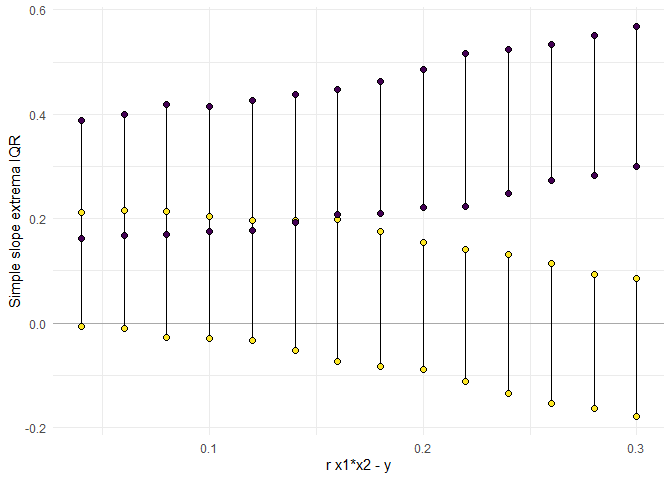
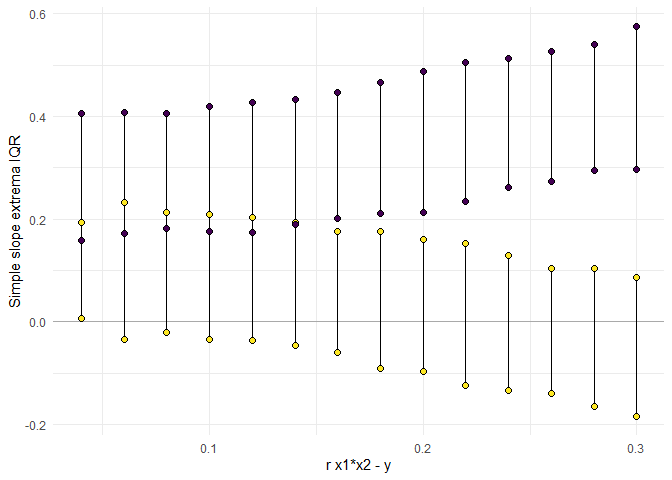
Fix error

diff --git a/README.md b/README.md
@@ -27,6 +27,14 @@ install.packages("devtools")
 devtools::install_github("dbaranger/InteractionPoweR")
 ```
 
+Sometimes there will be a minor installation error, which can be
+resolved by using:
+
+``` r
+install.packages("devtools")
+devtools::install_github("dbaranger/InteractionPoweR/@HEAD")
+```
+
 ## Examples
 
 ### Example 1
@@ -53,8 +61,8 @@ test_power<-power_interaction(
 )
 #> [1] "Performing 1000 tests"
 test_power
-#>    pwr     min.lwr   min.upr   max.lwr  max.upr
-#> 1 0.79 -0.09180522 0.2078051 0.1956069 0.461098
+#>     pwr     min.lwr   min.upr   max.lwr   max.upr
+#> 1 0.806 -0.07910145 0.1913635 0.2013804 0.4560657
 ```
 
 We see that we have \~80% power to detect the effect of interest.
@@ -67,8 +75,9 @@ provide a simple interface for simulating single data sets and plotting
 them.
 
 ``` r
+set.seed(2020)
 sample_data<-generate_interaction(N=350,r.x1x2.y =.15,r.x1.y = .2, r.x2.y = .1, r.x1.x2 = .2)
-plot_interaction(data = sample_data)
+plot_interaction(data = sample_data,q = 2)
 ```
 
 <img src="man/figures/README-example2-1.png" width="100%" />
@@ -84,7 +93,7 @@ we would need to detect those interactions.
 ``` r
 library(tictoc)
 tic()
-
+  
 test_power<-power_interaction(
   n.iter = 1000,            # number of simulations per unique combination of input parameters
   cl = 6,                   # number of cores for parallel processing (strongly recommended)
@@ -97,7 +106,7 @@ test_power<-power_interaction(
 )
 #> [1] "Performing 60000 tests"
 toc()
-#> 162.89 sec elapsed
+#> 261.08 sec elapsed
 ```
 
 The results of this analysis can be hard to interpret just by looking at
@@ -117,9 +126,9 @@ power\_curve for each interaction effect size crosses our 90% line:
 ``` r
 power_estimate(test_power,power_target = .9,x = "N")
 #>   r.x1x2.y estimate
-#> 1     0.18 307.6380
-#> 2     0.20 239.8541
-#> 3     0.22 207.7671
+#> 1     0.18 310.0378
+#> 2     0.20 247.4470
+#> 3     0.22 204.6025
 ```
 
 We can see that depending on the specific effect size we hope to detect,
@@ -151,7 +160,7 @@ test_power<-power_interaction(
 )
 #> [1] "Performing 14000 tests"
 toc()
-#> 57.64 sec elapsed
+#> 73.63 sec elapsed
 ```
 
 As with the previous example, the results of this analysis can be hard
@@ -168,7 +177,7 @@ power\_curve for each interaction effect size crosses our 90% line:
 
 ``` r
 power_estimate(test_power,power_target = .9,x = "r.x1x2.y")
-#> [1] 0.1476728
+#> [1] 0.1468017
 ```
 
 We can use the function `plot_simple_slope()` to visualize the
